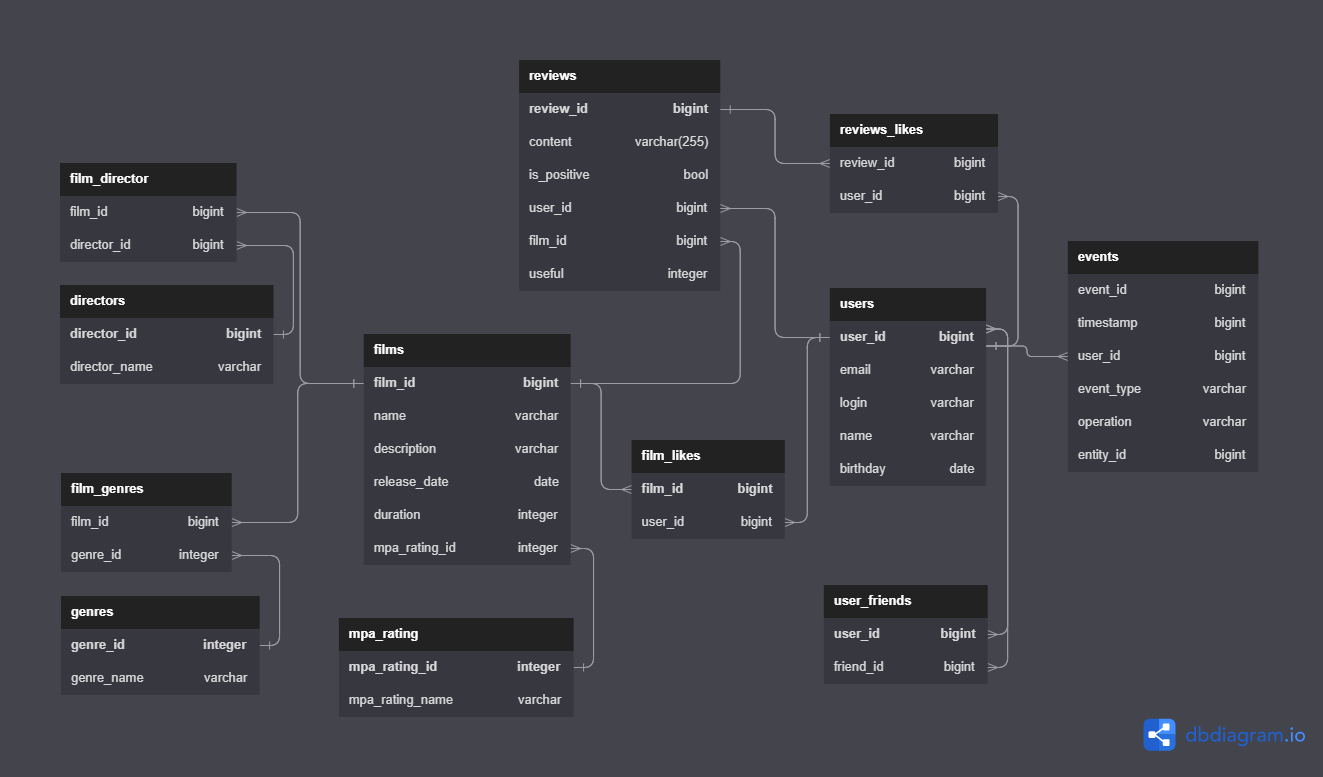
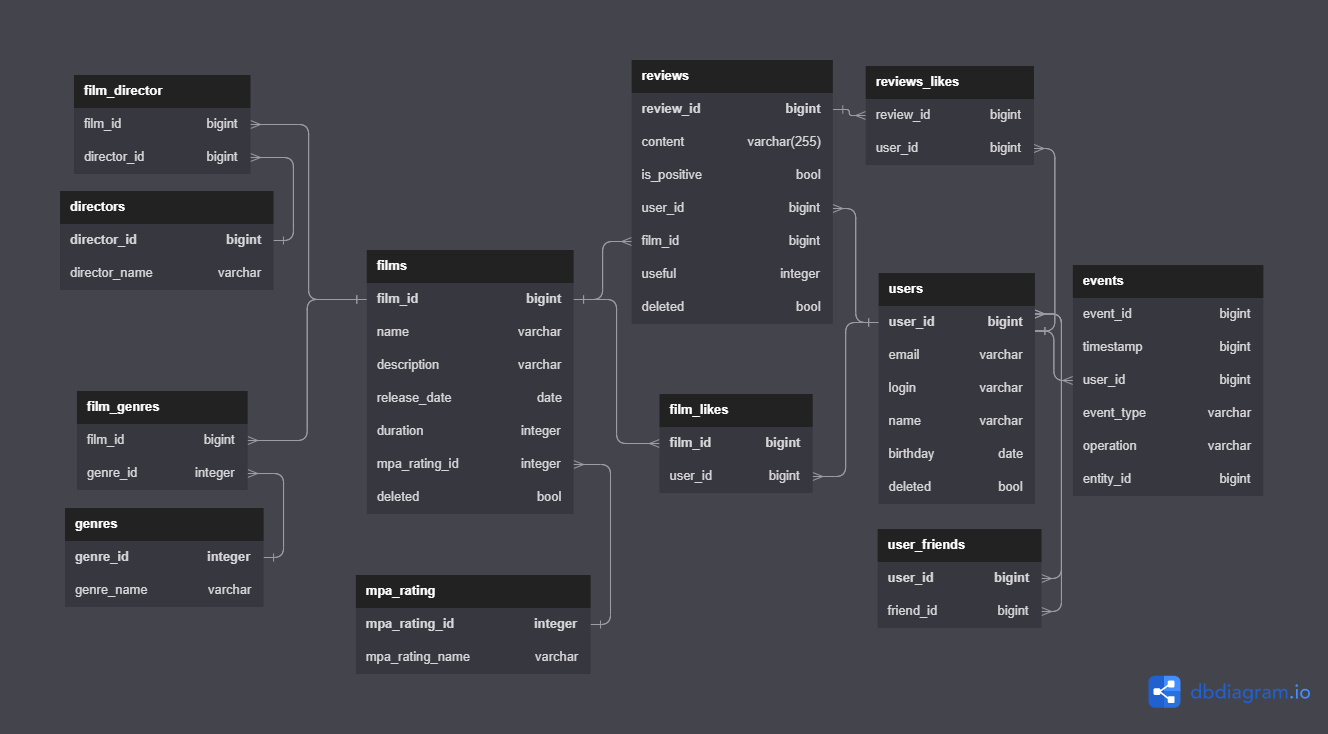
Add remove endpoint (#26)
refactor: added soft delete users, films, reviews

diff --git a/src/main/java/ru/yandex/practicum/filmorate/storage/film/FilmDbStorage.java b/src/main/java/ru/yandex/practicum/filmorate/storage/film/FilmDbStorage.java
@@ -36,7 +36,7 @@ public class FilmDbStorage implements FilmStorage {
     @Override
     public Film findFilm(long filmId) {
         String sql = "SELECT * FROM FILMS " +
-                "JOIN MPA_RATING M ON M.MPA_RATING_ID = FILMS.MPA_RATING_ID WHERE film_id = ?";
+                "JOIN MPA_RATING M ON M.MPA_RATING_ID = FILMS.MPA_RATING_ID WHERE film_id = ? AND films.deleted = false";
 
         Film film = jdbcTemplate.query(sql, FilmDbStorage::filmMapper, filmId).stream().findFirst().orElse(null);
         if (film == null) {
@@ -49,7 +49,7 @@ public class FilmDbStorage implements FilmStorage {
     @Override
     public Collection<Film> findAll() {
         String sql = "SELECT * FROM FILMS " +
-                "JOIN MPA_RATING M ON M.MPA_RATING_ID = FILMS.MPA_RATING_ID";
+                "JOIN MPA_RATING M ON M.MPA_RATING_ID = FILMS.MPA_RATING_ID AND films.deleted = false";
         return jdbcTemplate.query(sql, FilmDbStorage::filmMapper);
     }
 
@@ -72,12 +72,14 @@ public class FilmDbStorage implements FilmStorage {
     }
 
     @Override
-    public Film remove(Film film) {
-        String sql = "DELETE FROM FILMS WHERE film_id = ?";
-        jdbcTemplate.update(sql, film.getId());
+    public void remove(Film film) {
+        String sqlQuery = "UPDATE FILMS SET " +
+                "deleted = true WHERE film_id = ?";
+        jdbcTemplate.update(sqlQuery,
+                film.getId()
+        );
 
         log.info(String.format("Фильм с ID %d успешно удален.", film.getId()));
-        return film;
     }
 
     @Override
@@ -94,6 +96,7 @@ public class FilmDbStorage implements FilmStorage {
                 "m.mpa_rating_name FROM films as f " +
                 "LEFT JOIN likes as l ON f.film_id = l.film_id " +
                 "LEFT JOIN MPA_RATING as M ON M.MPA_RATING_ID = f.MPA_RATING_ID " +
+                "WHERE f.deleted = false " +
                 "GROUP BY l.film_id, f.film_id " +
                 "ORDER BY COUNT(l.user_id) DESC " +
                 "LIMIT ?";

diff --git a/src/main/java/ru/yandex/practicum/filmorate/storage/review/ReviewDbStorage.java b/src/main/java/ru/yandex/practicum/filmorate/storage/review/ReviewDbStorage.java
@@ -46,7 +46,7 @@ public class ReviewDbStorage implements ReviewStorage {
 
     @Override
     public Optional<Review> findById(long reviewId) {
-        String sqlQuery = "SELECT * FROM reviews WHERE review_id = ?";
+        String sqlQuery = "SELECT * FROM reviews WHERE review_id = ? AND deleted = false";
         try {
             Review review = jdbcTemplate.queryForObject(sqlQuery, rowMapper, reviewId);
             review.setLikes(getReviewLikes(reviewId));
@@ -75,7 +75,8 @@ public class ReviewDbStorage implements ReviewStorage {
 
     @Override
     public void delete(long reviewId) {
-        String sqlQuery = "DELETE FROM reviews WHERE review_id = ?";
+        String sqlQuery = "UPDATE reviews SET deleted = true " +
+                "WHERE review_id = ?";
         jdbcTemplate.update(sqlQuery, reviewId);
     }
 
@@ -108,10 +109,16 @@ public class ReviewDbStorage implements ReviewStorage {
         String sqlQuery;
         List<Review> reviews;
         if (filmId > 0) {
-            sqlQuery = "SELECT * FROM reviews WHERE film_id = ? ORDER BY useful DESC, review_id LIMIT ?";
+            sqlQuery = "SELECT * FROM reviews " +
+                    "JOIN FILMS AS f ON reviews.film_id = f.film_id " +
+                    "WHERE reviews.film_id = ? AND f.deleted = false AND reviews.deleted = false " +
+                    "ORDER BY reviews.useful DESC, reviews.review_id LIMIT ?";
             reviews = jdbcTemplate.query(sqlQuery, rowMapper, filmId, count);
         } else {
-            sqlQuery = "SELECT * FROM reviews ORDER BY useful DESC, review_id LIMIT ?";
+            sqlQuery = "SELECT * FROM reviews " +
+                    "JOIN FILMS AS f ON reviews.film_id = f.film_id " +
+                    "WHERE f.deleted = false AND reviews.deleted = false " +
+                    "ORDER BY reviews.useful DESC, reviews.review_id LIMIT ?";
             reviews = jdbcTemplate.query(sqlQuery, rowMapper, count);
         }
 

diff --git a/src/main/java/ru/yandex/practicum/filmorate/storage/user/UserDbStorage.java b/src/main/java/ru/yandex/practicum/filmorate/storage/user/UserDbStorage.java
@@ -36,7 +36,7 @@ public class UserDbStorage implements UserStorage {
 
     @Override
     public User findUser(long id) {
-        String sql = "SELECT * FROM USERS WHERE user_id = ?";
+        String sql = "SELECT * FROM USERS WHERE user_id = ? AND DELETED = FALSE";
         User user = jdbcTemplate.query(sql, UserDbStorage::userMapper, id).stream().findFirst().orElse(null);
         if (user == null) {
             throw new UserNotFoundException("Пользователь с ID " + id + " не найден.");
@@ -47,7 +47,7 @@ public class UserDbStorage implements UserStorage {
 
     @Override
     public Collection<User> findAll() {
-        String sql = "SELECT * FROM USERS ";
+        String sql = "SELECT * FROM USERS WHERE DELETED = FALSE";
         return new LinkedHashSet<>(
                 jdbcTemplate.query(sql, UserDbStorage::userMapper)
         );
@@ -70,9 +70,11 @@ public class UserDbStorage implements UserStorage {
 
     @Override
     public void remove(User user) {
-        String sql = "DELETE FROM USERS WHERE user_id = ?";
-        jdbcTemplate.update(sql, user.getId());
-
+        String sqlQuery = "UPDATE USERS SET " +
+                "deleted = true " +
+                "WHERE user_id = ?";
+        jdbcTemplate.update(sqlQuery,
+                user.getId());
         log.info("Удален пользователь {}.", user);
     }
 

diff --git a/src/main/java/ru/yandex/practicum/filmorate/storage/friends/FriendDbStorage.java b/src/main/java/ru/yandex/practicum/filmorate/storage/friends/FriendDbStorage.java
@@ -31,7 +31,7 @@ public class FriendDbStorage implements FriendStorage {
     public Collection<User> findAll(long id) {
         String sql = "SELECT FRIEND_ID, EMAIL, LOGIN, NAME, BIRTHDAY FROM USER_FRIENDS JOIN USERS U " +
                 "ON USER_FRIENDS.FRIEND_ID = U.USER_ID WHERE " +
-                "USER_FRIENDS.USER_ID = ?";
+                "USER_FRIENDS.USER_ID = ? AND u.deleted = false";
 
         return new ArrayList<>(
                 jdbcTemplate.query(sql, FriendDbStorage::friendMapper, id)

diff --git a/src/main/java/ru/yandex/practicum/filmorate/model/Film.java b/src/main/java/ru/yandex/practicum/filmorate/model/Film.java
@@ -24,6 +24,7 @@ public class Film {
     @Positive
     private Long duration;
     private Mpa mpa;
+    private boolean deleted;
     private List<Genre> genres;
     private Set<Long> likes;
     private List<Director> directors;
@@ -35,6 +36,7 @@ public class Film {
         values.put("release_date", releaseDate);
         values.put("duration", duration);
         values.put("mpa_rating_id", mpa.getId());
+        values.put("deleted", deleted);
         return values;
     }
 }

diff --git a/src/main/java/ru/yandex/practicum/filmorate/model/Review.java b/src/main/java/ru/yandex/practicum/filmorate/model/Review.java
@@ -26,6 +26,7 @@ public class Review {
     @NotNull
     private Long filmId;
     private Integer useful;
+    private boolean deleted;
     private Set<Long> likes;
     private Set<Long> dislikes;
 
@@ -36,6 +37,7 @@ public class Review {
         values.put("user_id", userId);
         values.put("film_id", filmId);
         values.put("useful", useful);
+        values.put("deleted", deleted);
         return values;
     }
 }

diff --git a/src/main/java/ru/yandex/practicum/filmorate/model/User.java b/src/main/java/ru/yandex/practicum/filmorate/model/User.java
@@ -22,6 +22,7 @@ public class User {
     private String name;
     @Past
     private LocalDate birthday;
+    private boolean deleted;
 
     private Set<Long> friends;
 
@@ -31,6 +32,7 @@ public class User {
         values.put("login", login);
         values.put("name", name);
         values.put("birthday", birthday);
+        values.put("deleted", deleted);
         return values;
     }
 }

diff --git a/src/main/java/ru/yandex/practicum/filmorate/storage/film/FilmStorage.java b/src/main/java/ru/yandex/practicum/filmorate/storage/film/FilmStorage.java
@@ -13,7 +13,7 @@ public interface FilmStorage {
 
     Film update(Film film, int ratingId);
 
-    Film remove(Film film);
+    void remove(Film film);
 
     Collection<Film> getCommonFilms(Long userId, Long friendId);
 
